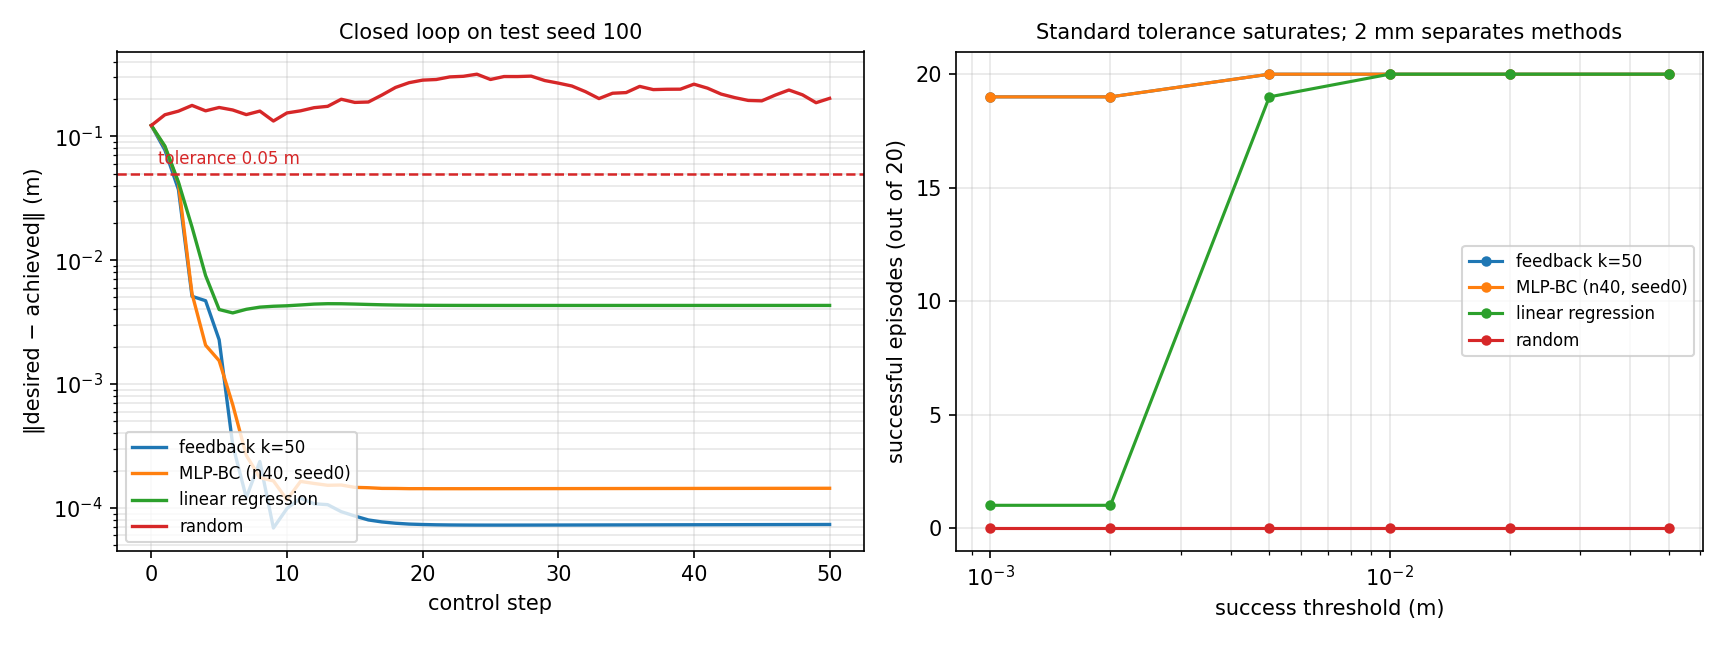
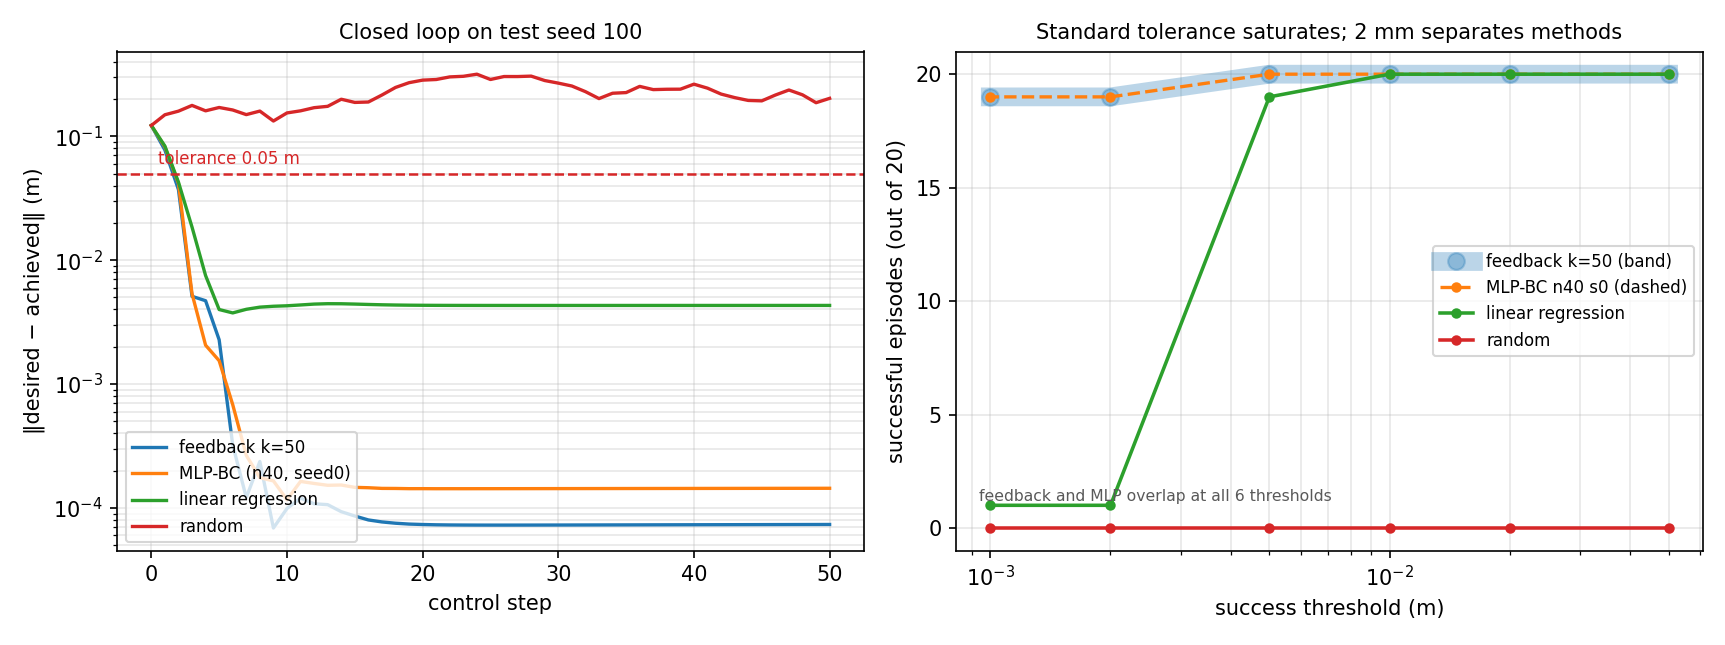
docs: correct BC lecture and fix W6 plot defects
- plot_w6.py: 五角星改读 train_summary.csv 的真实 best_epoch（原先用曲线
  argmin，但日志每 10 epoch 才记一条，n20 seed0 画在 70 而实际是 793）
- plot_w6.py: 专家与 MLP 在 6 档容差上数值完全重合，改用粗带子 + 虚线分层
- 讲义: 补术语消歧表与数据流图；重写数据划分、线性对照臂两节；
  修正 sanity check 的能力边界；修正线性臂 4mm 平台的归因（截距偏移，
  平衡点 4.05mm vs 实测 4.09mm）；新增汇报三件套
- README: 补讲义入口

Changed region(s): [[0.553, 0.093, 0.9832, 0.186], [0.8296, 0.3721, 0.9832, 0.5581], [0.553, 0.7442, 0.7681, 0.8062]]

diff --git a/scripts/plot_w6.py b/scripts/plot_w6.py
@@ -44,7 +44,23 @@ def _smooth(v: NDArray[np.float64], w: int = 5) -> NDArray[np.float64]:
     return np.convolve(vp, np.ones(w) / w, mode="valid")
 
 
+def _best_points() -> dict:
+    """每个 (tag, seed) 真正存进 ckpt 的那个 epoch。
+
+    训练时每个 epoch 都比一次 val_loss，但日志只每 10 个 epoch 记一条。
+    所以曲线上的 argmin != 实际 checkpoint，必须从 train_summary.csv 读。
+    """
+    path = OUT / "train_summary.csv"
+    out = {}
+    if not path.exists():
+        return out
+    for r in csv.DictReader(path.open(encoding="utf-8")):
+        out[(r["tag"], r["seed"])] = (int(r["best_epoch"]), float(r["best_val"]))
+    return out
+
+
 def fig_train_curves() -> Path:
+    best = _best_points()
     fig, axes = plt.subplots(1, 3, figsize=(14.5, 4.2))
     for ax, tag in zip(axes[:2], ("n20", "n40")):
         rows = list(csv.DictReader((OUT / f"train_curves_{tag}.csv").open(encoding="utf-8")))
@@ -56,10 +72,11 @@ def fig_train_curves() -> Path:
             c = COLORS[i % len(COLORS)]
             ax.semilogy(ep, tr, ls="--", lw=1.1, color=c, alpha=0.8)
             ax.semilogy(ep, va, ls="-", lw=1.5, color=c, label=f"seed{seed} val")
-            j = int(np.argmin(va))
-            ax.scatter(ep[j], va[j], marker="*", s=120, color=c, zorder=5,
+            be, bv = best.get((tag, seed), (ep[int(np.argmin(va))], va.min()))
+            ax.scatter(be, bv, marker="*", s=130, color=c, zorder=5,
                        edgecolor="black", linewidth=0.4)
         ax.plot([], [], "--", color="0.35", lw=1.1, label="train (dashed)")
+        ax.plot([], [], "*", color="0.35", ls="none", ms=9, label="saved ckpt epoch")
         ax.set_xlabel("epoch")
         ax.set_ylabel("weighted MSE loss")
         ax.set_title(f"{tag}: {15 if tag == 'n20' else 35} train / 5 val episodes", fontsize=9)
@@ -123,14 +140,22 @@ def fig_closed_loop(seed: int = 100) -> Path:
     ax1.grid(alpha=0.3, which="both")
     ax1.legend(fontsize=8, loc="lower left")
 
-    show = {"feedback": "feedback k=50", "mlp_n40_s0": "MLP-BC (n40, seed0)",
-            "linear": "linear regression", "random": "random"}
-    for i, (key, label) in enumerate(show.items()):
-        sub = {r["policy"]: r for r in tol if r["condition"] == "std"}
+    # feedback 与 mlp_n40_s0 在 6 个阈值上数值完全相同（20,20,20,20,19,19），
+    # 同色同宽会互相遮住。把 experts 画成粗淡的"带子"垫底，MLP 用虚线压在上面。
+    show = [
+        ("feedback", "feedback k=50 (band)", dict(color=COLORS[0], lw=9, alpha=0.30, marker="o", ms=8)),
+        ("mlp_n40_s0", "MLP-BC n40 s0 (dashed)", dict(color=COLORS[1], lw=1.6, ls="--", marker="o", ms=4)),
+        ("linear", "linear regression", dict(color=COLORS[2], lw=1.7, ls="-", marker="o", ms=4)),
+        ("random", "random", dict(color=COLORS[3], lw=1.7, ls="-", marker="o", ms=4)),
+    ]
+    sub = {r["policy"]: r for r in tol if r["condition"] == "std"}
+    for key, label, style in show:
         if key not in sub:
             continue
         ok = [int(sub[key][f"ok_{t}"]) for t in thrs]
-        ax2.plot(thrs, ok, "-o", ms=4, lw=1.5, color=COLORS[i % len(COLORS)], label=label)
+        ax2.plot(thrs, ok, label=label, **style)
+    ax2.text(0.03, 0.10, "feedback and MLP overlap at all 6 thresholds",
+             transform=ax2.transAxes, fontsize=7.5, color="0.35")
     ax2.set_xscale("log")
     ax2.set_xlabel("success threshold (m)")
     ax2.set_ylabel("successful episodes (out of 20)")
